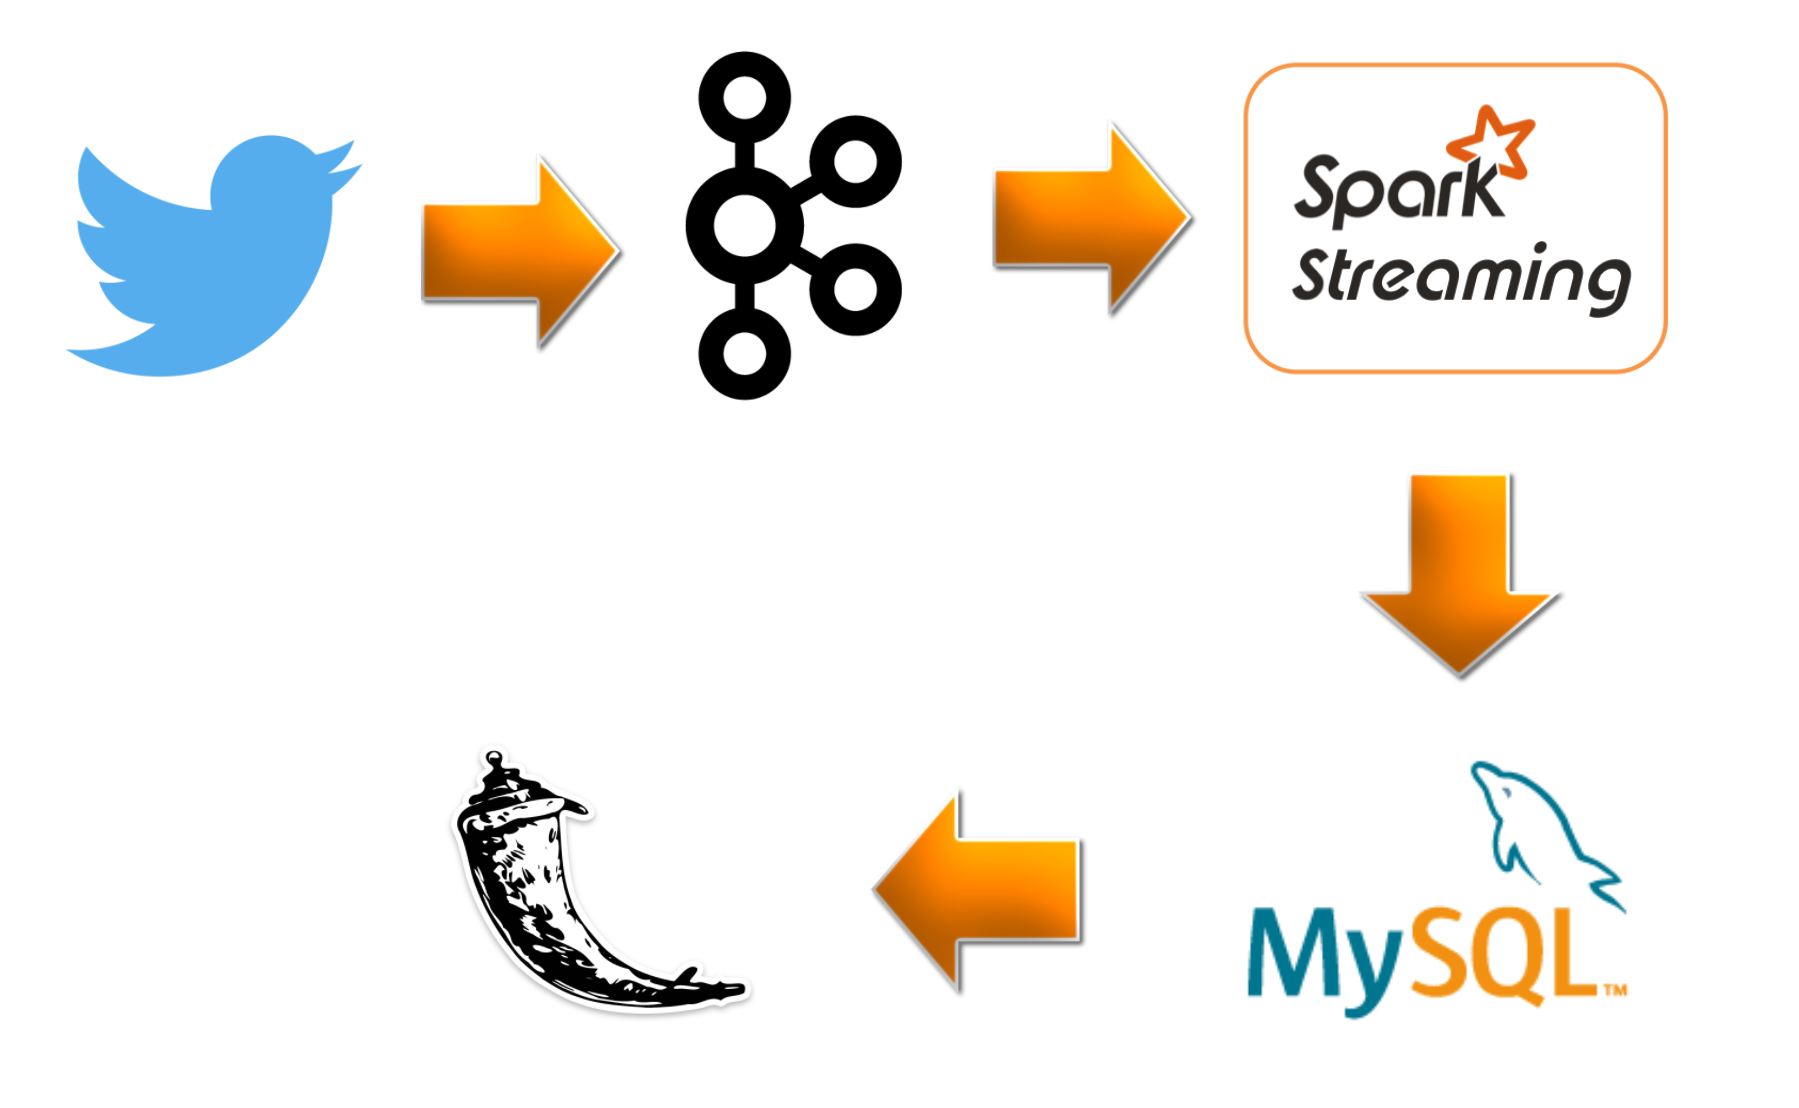
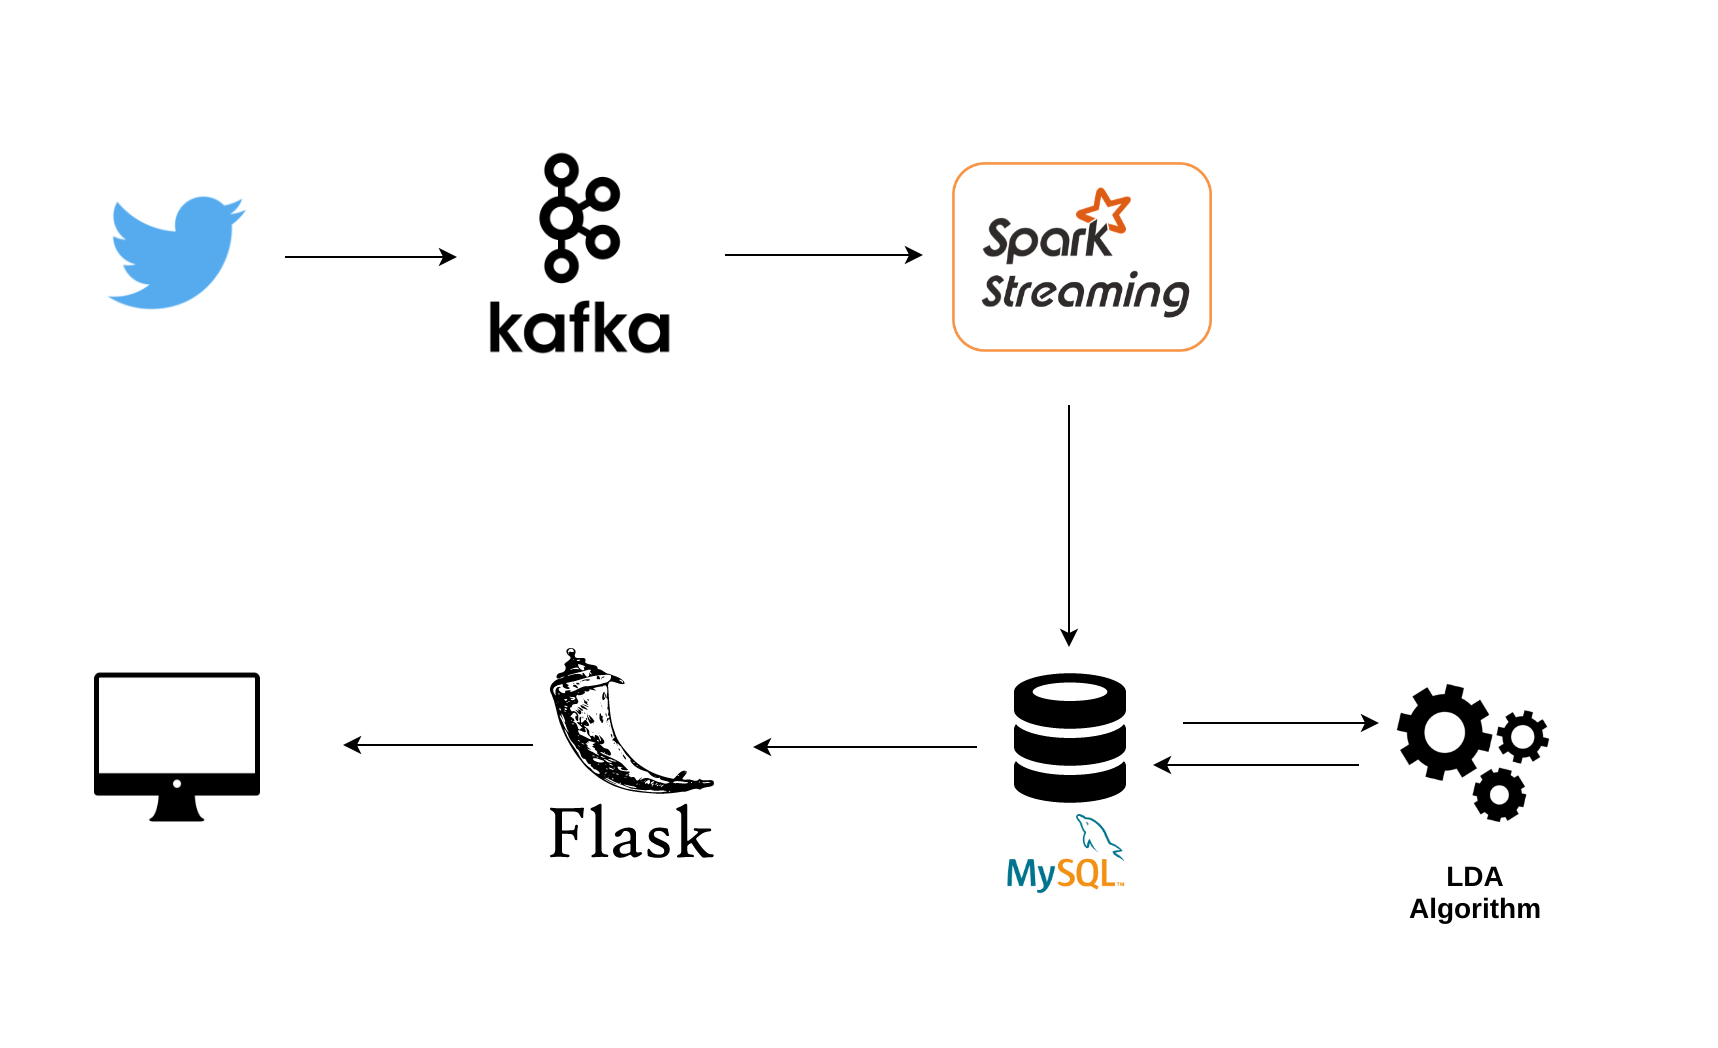
Add API layer in flask

diff --git a/src/Flask/app.py b/src/Flask/app.py
@@ -1,4 +1,3 @@
-# Hello, Flask!
 from flask import Flask, render_template, request
 from dateutil.parser import parser
 from datetime import datetime
@@ -6,7 +5,110 @@ import MySQLdb as mdb
 
 app = Flask(__name__)
 
-# Index page, no args
+def remove_paren(rows):
+    newList = []
+    for row in rows:
+        row = str(row)
+        row = row[1 : -1]
+        newList.append(row)
+    return newList
+
+def get_clusters(table_name, brand, cntList):
+    
+    query = "SELECT topic, COUNT(*), COUNT(DISTINCT USER_ID), SUM(RETWEET_COUNT), SUM(FAV_COUNT), AVG(SENTIMENT_SCORE) FROM %s where BRAND = '%s' GROUP BY topic" %(table_name, brand)
+    cursor.execute(query)
+    rows = cursor.fetchall()
+    result = []
+
+    for row in rows:
+        num_row = int(float(row[0]))
+        q = "SELECT TWEET_ID from %s WHERE TOPIC=%s AND BRAND='%s' LIMIT 3" %(table_name, num_row, brand)
+        cursor.execute(q)
+        tweet_is_list = cursor.fetchall()
+
+        tweet_ids = []
+        for tweetid in tweet_is_list:
+          for i in range(0, len(tweetid)):
+            tweet_ids.append(tweetid[i])
+
+
+        topic_query = "SELECT TOPIC_WORDS FROM CLUSTER_TOPICS WHERE BRAND='%s' AND TOPIC=%s"%(brand, num_row)
+        cursor.execute(topic_query)
+        topic_row = cursor.fetchall()[0][0]
+        topic_row = topic_row[:-1]
+        topics = topic_row.split('|')
+        cntList[0] += 1
+        data = {'id': cntList[0],
+            'num_tweets': int(row[1]),
+            'num_users': int(row[2]),
+            'num_retweet': int(row[3]),
+            'favorite_count': int(row[4]),
+            'senti_score': float(row[5]),
+            'tweet_ids':tweet_ids,
+            'topics': topics
+           }
+
+        result.append(data)
+
+    return result
+
+@app.route('/events:<string:brand>', methods=['GET'])
+def get_brand_info(brand):
+    brand = brand.encode('utf8')
+    cntList = [0]
+    cluster_neg = get_clusters('NEG_TWEETS', brand, cntList)
+    cluster_pos = get_clusters('POS_TWEETS', brand, cntList)
+    cluster_neu = get_clusters('NEU_TWEETS', brand, cntList)
+
+    clusters = []
+    for cl in cluster_neg:
+        clusters.append(cl)
+    for cl in cluster_neu:
+        clusters.append(cl)
+    for cl in cluster_pos:
+        clusters.append(cl)
+    
+    query = "SELECT result, count(result), AVG(SENTIMENT_SCORE) FROM TWEETDATA where BRAND = '%s' group by result order by result" %(brand)
+    cursor.execute(query)
+    rows = cursor.fetchall()
+    pos_cnt = 0
+    pos_avg = 0
+    neg_cnt = 0
+    neg_avg = 0
+    neu_cnt = 0
+    neu_avg = 0
+
+    for i in range(0, len(rows)):
+        if rows[i][0] == 'pos':
+            pos_cnt = int(float(rows[i][1]))
+            pos_avg = float(rows[i][2])
+
+        elif rows[i][0] == 'neg':
+            neg_cnt = int(float(rows[i][1]))
+            neg_avg = float(rows[i][2])
+        else:
+            neu_cnt = int(float(rows[i][1]))
+            neu_avg = float(rows[i][2])
+
+    brand_query = "SELECT count(TWEET), SUM(RETWEET_COUNT), SUM(FAV_COUNT), AVG(SENTIMENT_SCORE) FROM TWEETDATA WHERE BRAND='%s'"%(brand)
+    cursor.execute(brand_query)
+    rows = cursor.fetchall()    
+    data = { 'brand': brand,
+             'total_num_tweets': int(rows[0][0]),
+             'total_retweet_cnt': 0,
+             'total_fav_cnt': int(rows[0][2]),
+             'toral_avg_sentiment_score': float(rows[0][3]),
+             'pos_tweet_count': pos_cnt,
+             'pos_sentiment_avg': pos_avg,
+             'neutral_tweets_cnt': neu_cnt,
+             'neu_sentiment_avg': neu_avg,
+             'neg_tweets_cnt': neg_cnt,
+             'neg_sentiment_avg': neg_avg,
+             'clusters': clusters
+           }
+
+    return jsonify(data)
+
 @app.route('/')
 def index():
 	return render_template("index.html")
@@ -27,10 +129,6 @@ def my_form_post():
     to_day = to_date[3:5]
     to_date = to_year+'-'+to_mnth+'-'+to_day
 
-    #dt = parser.parse(from_date)
-
-    # from_date = datetime.datetime.strptime(from_date, '%m/%d/%Y')
-    # to_date = datetime.datetime.strptime(to_date, '%m/%d/%Y')
     con = mdb.connect('YOUR_IP_ADDRESS', 'USER_NAME', 'YOUR_PASSWORD', 'YOUR_DATABASE')
     cursor = con.cursor()
     query = "SELECT result, count(result) FROM TWEETDATA where BRAND = '%s' and CREATED_DATE between date('%s') and date('%s') group by result order by result" %(brand, from_date, to_date)
@@ -52,14 +150,6 @@ def my_form_post():
     rows_neu = cursor.fetchall()
 
     return render_template("analysis.html", pos=rows[2][1], neg=rows[0][1], neu=rows[1][1], brand=brand, rows_neu=rows_neu, rows_neg=rows_neg, rows_pos=rows_pos)
-
-
-    #return str(rows)
- 
-    #select result from TWEETDATA where DATE between
-    #return render_template("analysis.html", brand=brand, from_date=from_date, to_date=to_date)
-	# With debug=True, Flask server will auto-reload 
-	# when there are code changes
 	
 
 if __name__ == '__main__':

diff --git a/src/Batch/batch.py b/src/Batch/batch.py
@@ -8,7 +8,7 @@ from nltk.corpus import stopwords
 from nltk.stem.wordnet import WordNetLemmatizer
 import string
 import numpy as np
-from pprint import pprint # pretty-printer
+from pprint import pprint
 import itertools
 from collections import OrderedDict
 import collections
@@ -17,7 +17,7 @@ from gensim import corpora, models, similarities
 
 
 
-con = mdb.connect('localhost', 'testuser', 'test623', 'testdb');
+con = mdb.connect('YOUR_HOST_NAME', 'YOUR_USER_NAME', 'YOUR_PASSWORD', 'YOUR_DB_NAME');
 cursor = con.cursor()
 cursor.execute("SELECT * FROM TWEETDATA")
 rows = cursor.fetchall()
@@ -35,7 +35,6 @@ for row in rows:
 
 
 stoplist = stopwords.words('english') # create English stop words list
-# stoplist.append('superbowl') # you may add other words to the list 
 stop=set(stoplist)
 exclude = set(string.punctuation) # for punctuation removal
 lemma = WordNetLemmatizer() # for lemmatization
@@ -51,20 +50,20 @@ texts_neg = [clean(doc).split() for doc in tweets_negative]
 texts_pos = [clean(doc).split() for doc in tweets_positive]
 texts_neu = [clean(doc).split() for doc in tweets_neutral]
 
-
 np.random.seed(0)
+
 # Create Dictionary.
 id2word = corpora.Dictionary(texts_neg)
+
 # Creates the Bag of Word corpus.
 mm = [id2word.doc2bow(text) for text in texts_neg]
+
 # Trains the LDA models.
 trained_models = OrderedDict()
 # Can vary number of topics, here I use just 5 topics to speed up calculations
 for ntopics in range(1,6,1):
-  print("Doing LDA(k=%d)" % ntopics)
   lda = models.ldamodel.LdaModel(corpus=mm, id2word=id2word, num_topics=ntopics, update_every=1, chunksize=10000, passes=10)
   trained_models[ntopics] = lda
-  #print(trained_models[ntopics].print_topics())
   
 # calculate coherence for each case
 cm = models.CoherenceModel.for_models(trained_models.values(), dictionary=id2word, texts=texts_neg, coherence='c_v')
@@ -74,34 +73,23 @@ avg_coherence = \
   [(num_topics, avg_coherence)
     for num_topics, (_, avg_coherence) in coherences.items()]
 ranked = sorted(avg_coherence, key=lambda tup: tup[1], reverse=True)
-# print the best case 
-print("Ranked by average '%s' coherence:\n" % cm.coherence)
-for item in ranked:
-  print("num_topics=%d:\t%.4f" % item)
-print("\nBest: %d" % ranked[0][0])
-#=== LDA, final run with the chosen above number of topics
-# Input: texts_neg and number of topics (ntopics_use)
 ntopics_use=ranked[0][0] 
 np.random.seed(0)
 lda = models.ldamodel.LdaModel(corpus=mm, id2word=id2word, num_topics=ntopics_use, update_every=1, chunksize=10000, passes=10)
-# Assigns the topics to the documents in corpus
 lda_corpus = lda[mm]
-# Input: lda_corpus and tweets_negative
-# Printing the results, perhaps not the most optimal way
+
 topic_list=[]
 score_list=[]
 twtext_list=[]
 
 for m,k in zip(lda_corpus,tweets_negative):
   max_tuple=max(m,key=lambda item:item[1]) # find cluster based on max score
-  #print(max_tuple[0],max_tuple[1],k)
-  #print(m,k)
   topic_list.append(max_tuple[0])
   score_list.append(max_tuple[1])
   twtext_list.append(k)
+
 score_twtext=tuple(zip(score_list,twtext_list))
 
-#print(score_twtext)
 #Select top tweet in each cluster
 top_list=[]
 for ntop in range(0,ntopics_use):
@@ -109,14 +97,14 @@ for ntop in range(0,ntopics_use):
   list_sel=[score_twtext[i] for i in indices]
   print(list_sel)
   top_list.append(max(list_sel,key=lambda item:item[0])[1])
-#print(top_list)
+
 #Number of messages in each cluster
 num_cluster=[]
 counter=collections.Counter(topic_list)
 for i in range(0,ntopics_use):
   num_cluster.append(counter[i])
-#print(num_cluster)
-result_tuple=tuple(zip(num_cluster,top_list)) # return this tuple
+
+result_tuple=tuple(zip(num_cluster,top_list)) 
 for i in result_tuple:
   print('Number of tweets in cluster:', i[0])
   print('Top-ranked tweet:', i[1])

diff --git a/README.md b/README.md
@@ -21,7 +21,7 @@ Some of the primary engineering challenges are
 2. Stemming and Tokenizing tweets for common brands
 
 ## Proposed Architecture:
-![Screenshot](Capture.PNG)
+
 
 ## Quantitative specifications/constraints
 Optimize number of tweets processed per minute.
